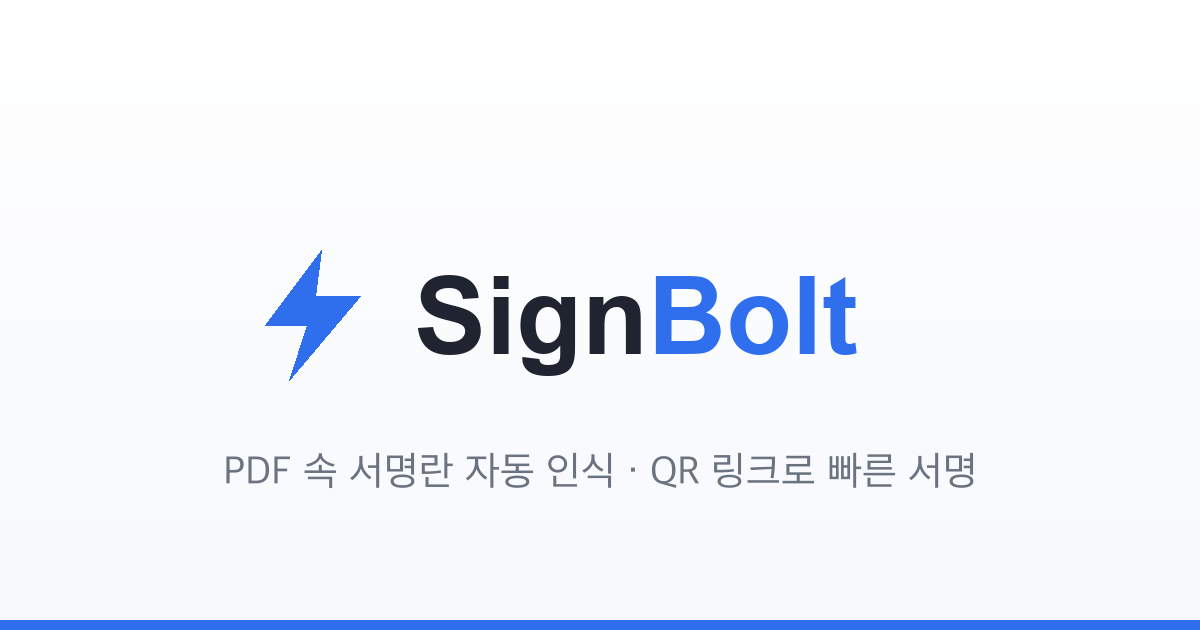
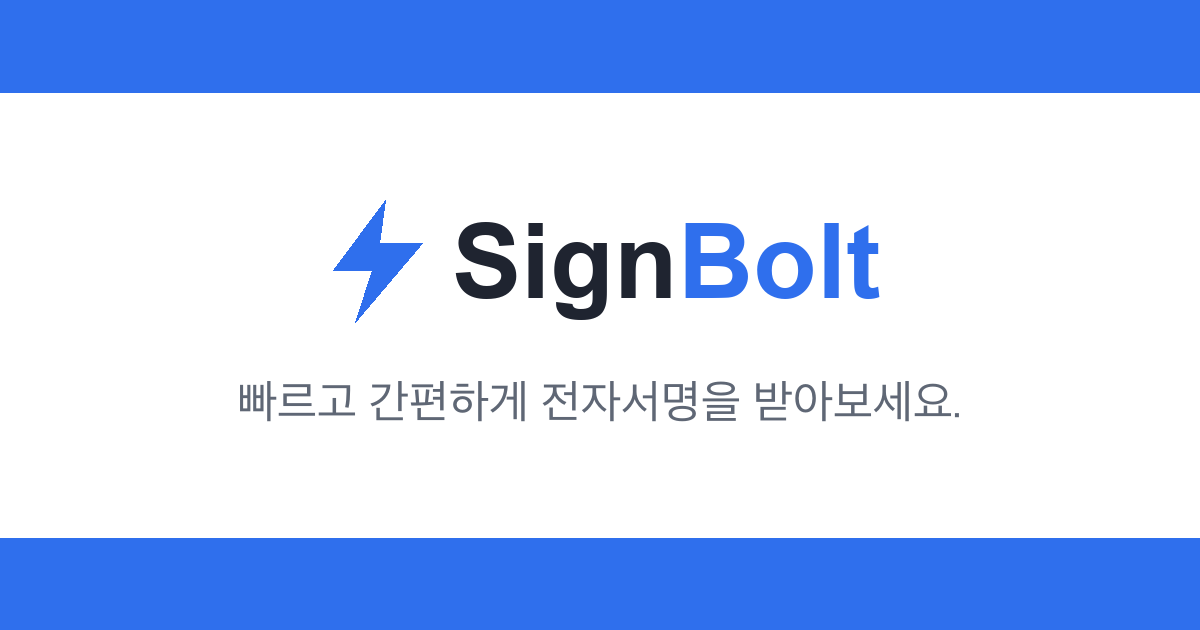
링크 미리보기: 썸네일 리디자인 + 제목 문구 수정
- og-cover.png: 흰 배경 + 위아래 파란 밴드, 로고·태그라인 중앙 배치,
  문구 "빠르고 간편하게 전자서명을 받아보세요."
- 제목 → "SignBolt — 빠르고 간편한 전자 서명"

diff --git a/frontend/index.html b/frontend/index.html
@@ -3,12 +3,12 @@
   <head>
     <meta charset="UTF-8" />
     <meta name="viewport" content="width=device-width, initial-scale=1.0" />
-    <title>SignBolt — 쉽고 빠른 전자 서명</title>
+    <title>SignBolt — 빠르고 간편한 전자 서명</title>
     <meta
       name="description"
       content="PDF 속 서명란 자동 인식 · QR 링크로 빠른 서명"
     />
-    <meta property="og:title" content="SignBolt — 쉽고 빠른 전자 서명" />
+    <meta property="og:title" content="SignBolt — 빠르고 간편한 전자 서명" />
     <meta
       property="og:description"
       content="PDF 속 서명란 자동 인식 · QR 링크로 빠른 서명"
